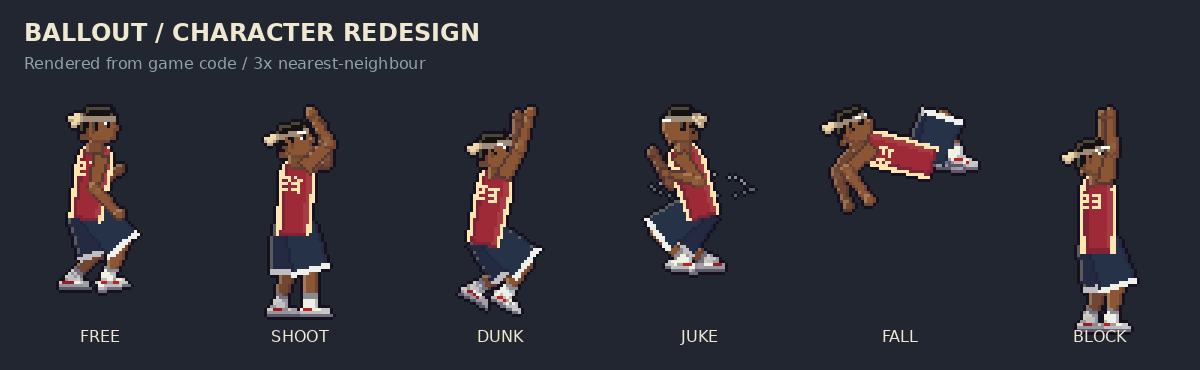
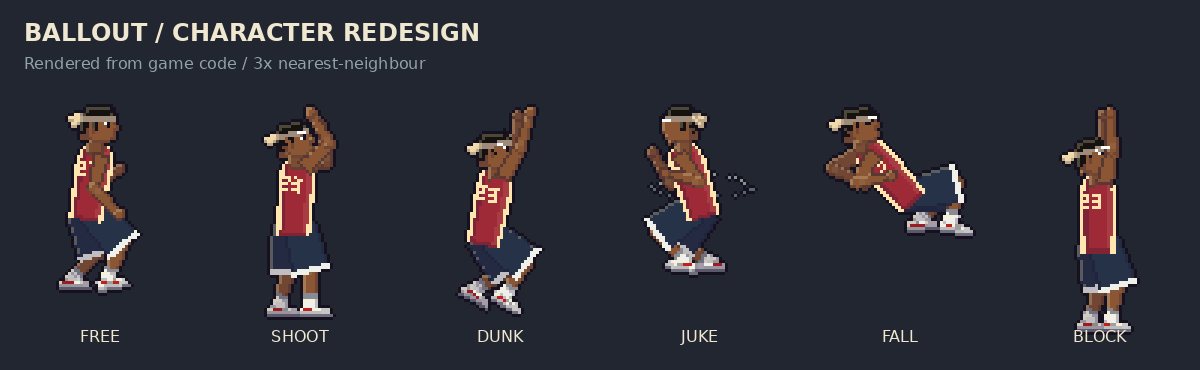
Fix chest jewellery and collapse pose; soften AI shot contests

Changed region(s): [[0.6783, 0.2676, 0.8325, 0.6541]]

diff --git a/src/puppet.ts b/src/puppet.ts
@@ -639,12 +639,16 @@ export class Puppet {
     if (kind === 'none' || this.cur.turn < -.28) return;
     const gold = kind === 'gold' || kind === 'cuban' || kind === 'rope' || kind === 'cross';
     const col = gold ? 0xf0c040 : kind === 'rosary' ? 0x8a1c24 : 0xdfe6ee, dk = gold ? 0xb88820 : kind === 'rosary' ? 0x4a0e14 : 0x8d99a8;
-    const ang = lean;
-    // Jewellery hangs inside the chest silhouette, away from bright side seams.
-    const breadth = .78+.22*(1-Math.abs(this.cur.turn));
-    const at = (t: number, off: number) => [h[0]+(n[0]-h[0])*t+Math.cos(ang)*off*breadth*u*(sx<0?-1:1), h[1]+(n[1]-h[1])*t+Math.sin(ang)*off*breadth*u];
+    // Project onto the front plane of the actual, leaning torso. The spine
+    // centre is not the chest surface in profile; mirrored lean needs the same frame.
+    const length=Math.hypot(n[0]-h[0],n[1]-h[1])||1;
+    const direction=sx<0?-1:1;
+    const normal=[(h[1]-n[1])/length*direction,(n[0]-h[0])/length*direction];
+    const profile=Math.abs(this.cur.turn);
+    const surface=4.2*profile,loop=2.2-1.4*profile;
+    const at=(t:number,off:number)=>[h[0]+(n[0]-h[0])*t+normal[0]*off*u,h[1]+(n[1]-h[1])*t+normal[1]*off*u];
     const low = kind==='rosary'?.43:kind==='rope'?.57:.65;
-    const path = [at(.96,-1.8),at(.83,-2.6),at(low,0),at(.83,2.6),at(.96,1.8)];
+    const path=[at(.96,surface*.35-loop),at(.83,surface-loop),at(low,surface+.4),at(.83,surface+loop),at(.96,surface*.35+loop)];
     const p = this.pix;
     const end = path[2];
     // Dark backing keeps silver readable against white shirts and piping.
@@ -668,7 +672,7 @@ export class Puppet {
       } else p.line(x0, y0, x1, y1, col);
     }
     const sw = this.chain;
-    const ex = end[0] + sw.x * sx, ey = end[1] + sw.y;
+    const ex = end[0] + clamp(sw.x * sx,-1.2*u,1.2*u), ey = end[1] + clamp(sw.y,-u,u);
     if (kind === 'rope' || kind === 'cuban') return;
     const px = Math.round(ex), py = Math.round(ey);
     p.line(end[0], end[1], ex, ey, dk);

diff --git a/src/anim.ts b/src/anim.ts
@@ -188,17 +188,16 @@ export function poseOf(h: Hooper, g: GameScene, dt: number): Pose {
     }
     case 'fall': {
       const tt = h.actT;
-      const trip = seg(tt, 0, 0.16), drop = seg(tt, 0.12, 0.34), flat = seg(tt, 0.34, 0.5), rise = seg(tt, 0.85, 1.15);
-      const down = ease(drop) * (1 - ease(rise));
-      r.hipY = lerp(86, 74, ease(trip)) * (1 - down) + 15 * down;
-      r.lean = lerp(0.2, -0.2, ease(trip)) * (1 - down) + -1.32 * down + 0.5 * ease(rise) * down;
-      r.head = 0.3 * down;
-      const legsOut = down;
-      r.fFx = lerp(18, 34, legsOut); r.fFy = lerp(0, 10, legsOut) + 8 * Math.sin(flat * Math.PI) * 0;
-      r.bFx = lerp(-14, 22, legsOut); r.bFy = lerp(0, 22, ease(flat)) * down;
-      r.fAnk = r.bAnk = 0.2 * down;
-      hands(lerp(24, -2, down), lerp(4, -50, down), lerp(-14, -22, down), lerp(14, -56, down));
-      r.emo = -1; r.mouth = tt < 0.8 ? 1 : 0;
+      const trip=ease(seg(tt,0,.18)),drop=ease(seg(tt,.12,.38)),rise=ease(seg(tt,.82,1.15));
+      const down=drop*(1-rise);
+      // One seated collapse, with feet below the hips throughout the fall.
+      // The old hips dropped below the raised ankles and flipped the leg IK.
+      r.hipY=lerp(88,78,trip)*(1-down)+38*down;
+      r.lean=lerp(.12,-.72,down);r.head=.18*down;
+      r.fFx=lerp(18,44,down);r.bFx=lerp(-14,10,down);
+      r.fFy=0;r.bFy=2*down;r.fAnk=.12*down;r.bAnk=-.08*down;
+      hands(lerp(24,20,down),lerp(4,-24,down),lerp(-14,-8,down),lerp(14,-30,down));
+      r.emo=-1;r.mouth=0;
       break;
     }
     case 'recover': {

diff --git a/src/ai.ts b/src/ai.ts
@@ -139,15 +139,16 @@ export class Brain {
     if (opp.act === 'shoot') {
       if (!this.seenShoot) {
         this.seenShoot = true;
-        this.reactT = this.lvl.react*(.35+g.rand()*.35);
-        this.contestShot = g.rand()<clamp(.42+this.lvl.aggr*.45+me.stats.defense/450,.5,.95);
-        this.jumpMeter = .48+this.lvl.aggr*.10+(g.rand()-.5)*.08;
+        this.reactT = this.lvl.react*(.65+g.rand()*.55);
+        this.contestShot = g.rand()<clamp(.30+this.lvl.aggr*.42+me.stats.defense/500,.38,.82);
+        this.jumpMeter = .55+this.lvl.aggr*.09+(g.rand()-.5)*.10;
       }
       this.reactT -= dt;
-      if (this.reactT <= 0 && opp.meter >= this.jumpMeter && this.contestShot && adx < 165 && adz < 52 && me.act === 'free' && this.lastJump <= 0 ) {
+      if (this.reactT <= 0 && opp.meter >= this.jumpMeter && this.contestShot && adx < 140 && adz < 44 && me.act === 'free' && this.lastJump <= 0 ) {
         I.shootDown = true; I.shootHeld=true; this.lastJump = 1.2;
       }
-      I.mx = clamp((opp.x + 40 - me.x) / 30, -1, 1);
+      if(this.reactT<=0 && this.contestShot && this.lapseT<=0) I.mx=clamp((opp.x+48-me.x)/55,-.7,.7);
+      else I.mx*=.6;
     } else this.seenShoot = false;
 
     if (me.act === 'free' && (opp.act === 'free' || opp.act === 'juke')) {

diff --git a/scripts/render-fall-defense.py b/scripts/render-fall-defense.py
@@ -1,0 +1,17 @@
+"""Render CPU game sprites after node scripts/check-fall-defense.cjs."""
+from PIL import Image, ImageDraw
+from pathlib import Path
+import json
+root=Path('/tmp/ballout-fix')
+frames=json.loads((root/'manifest.json').read_text())
+out=Image.new('RGB',(1200,600),'#222630')
+d=ImageDraw.Draw(out)
+for i,f in enumerate(frames):
+    im=Image.frombytes('RGBA',(f['w'],f['h']),(root/f'{i}.rgba').read_bytes())
+    box=im.getbbox()
+    im=im.crop((box[0]-2,box[1]-2,box[2]+2,box[3]+2))
+    im=im.resize((im.width*3,im.height*3),Image.Resampling.NEAREST)
+    x=(i%6)*200; y=(i//6)*300
+    out.paste(im,(x+(200-im.width)//2,y+20),im)
+    d.text((x+35,y+265),f['name'].upper(),fill='white')
+out.save(Path(__file__).resolve().parent.parent/'docs/fall-chain-fix.png')
